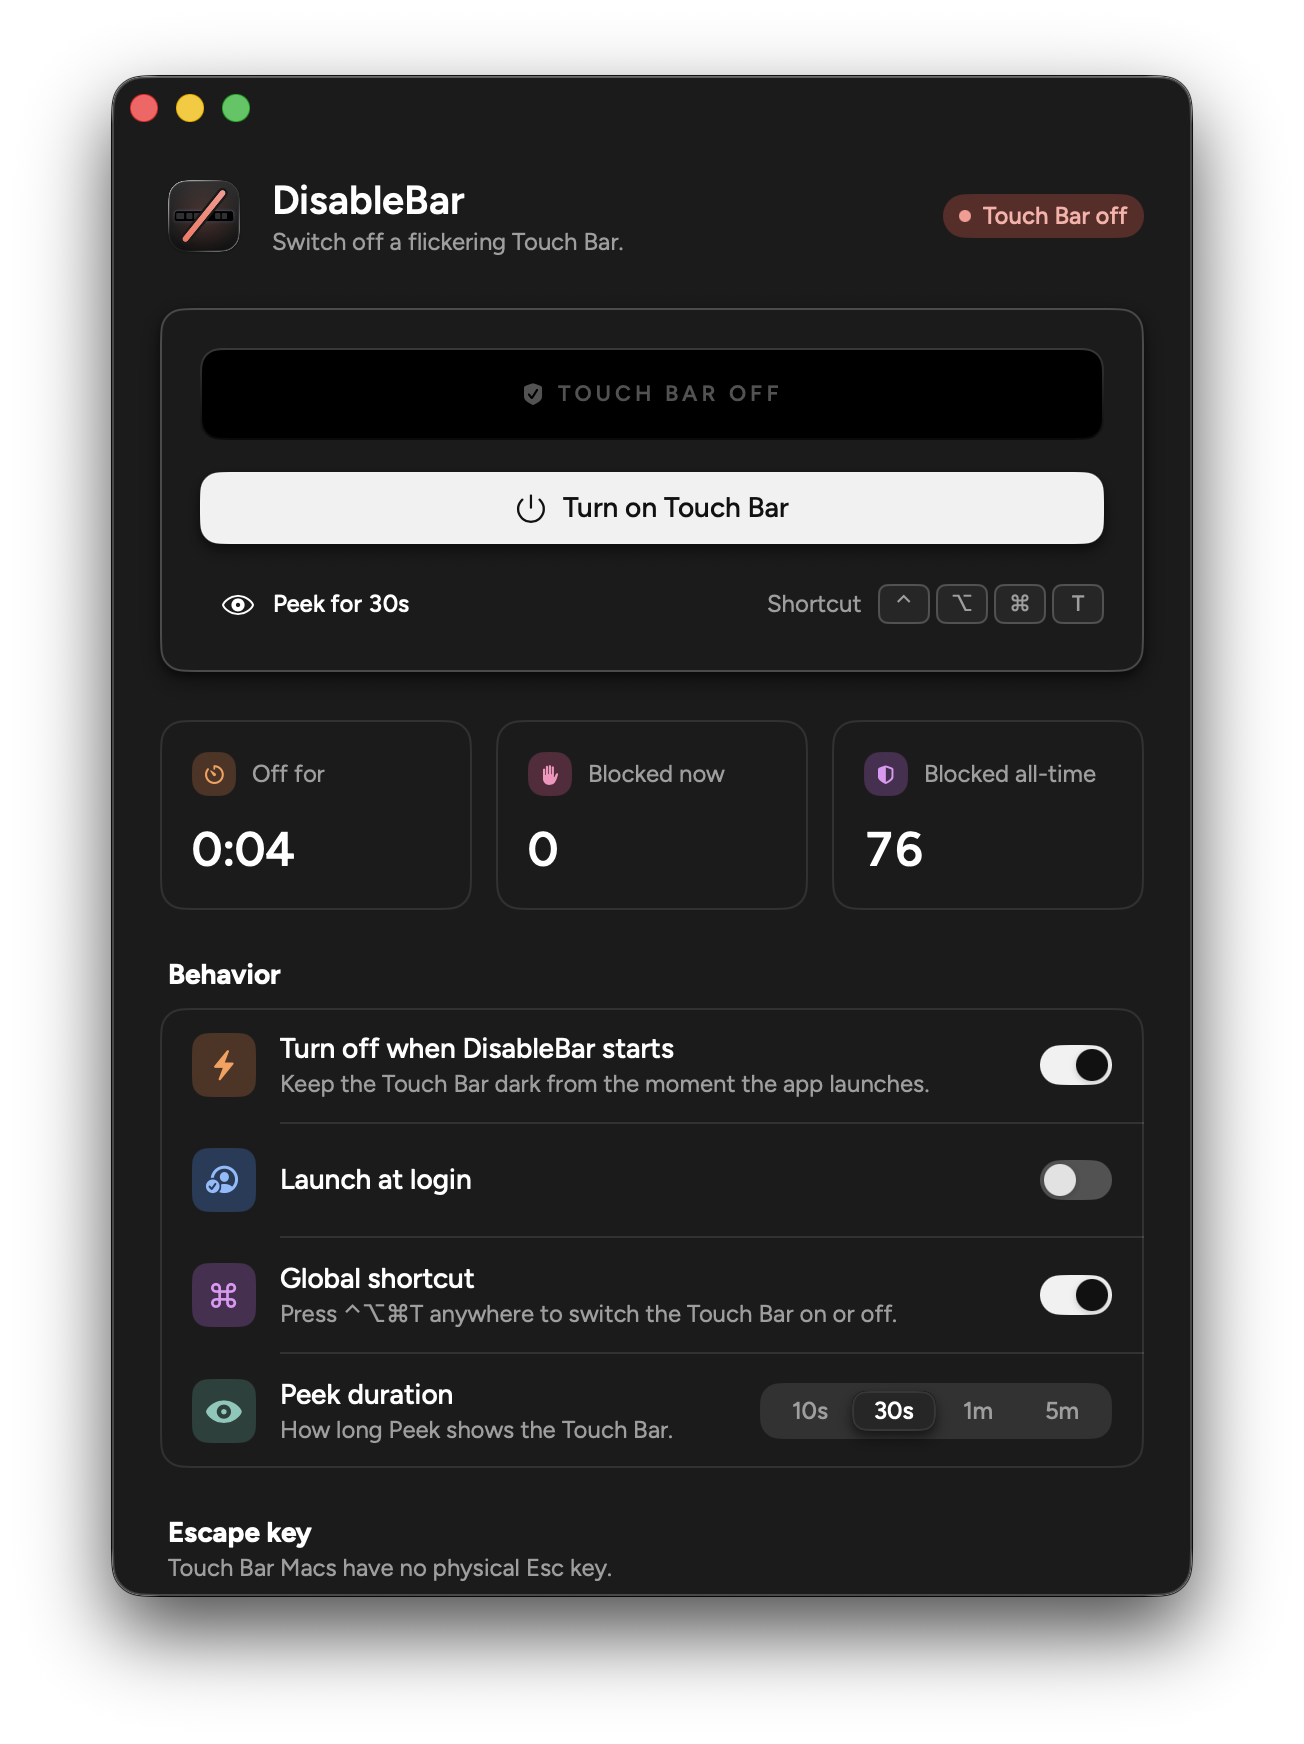
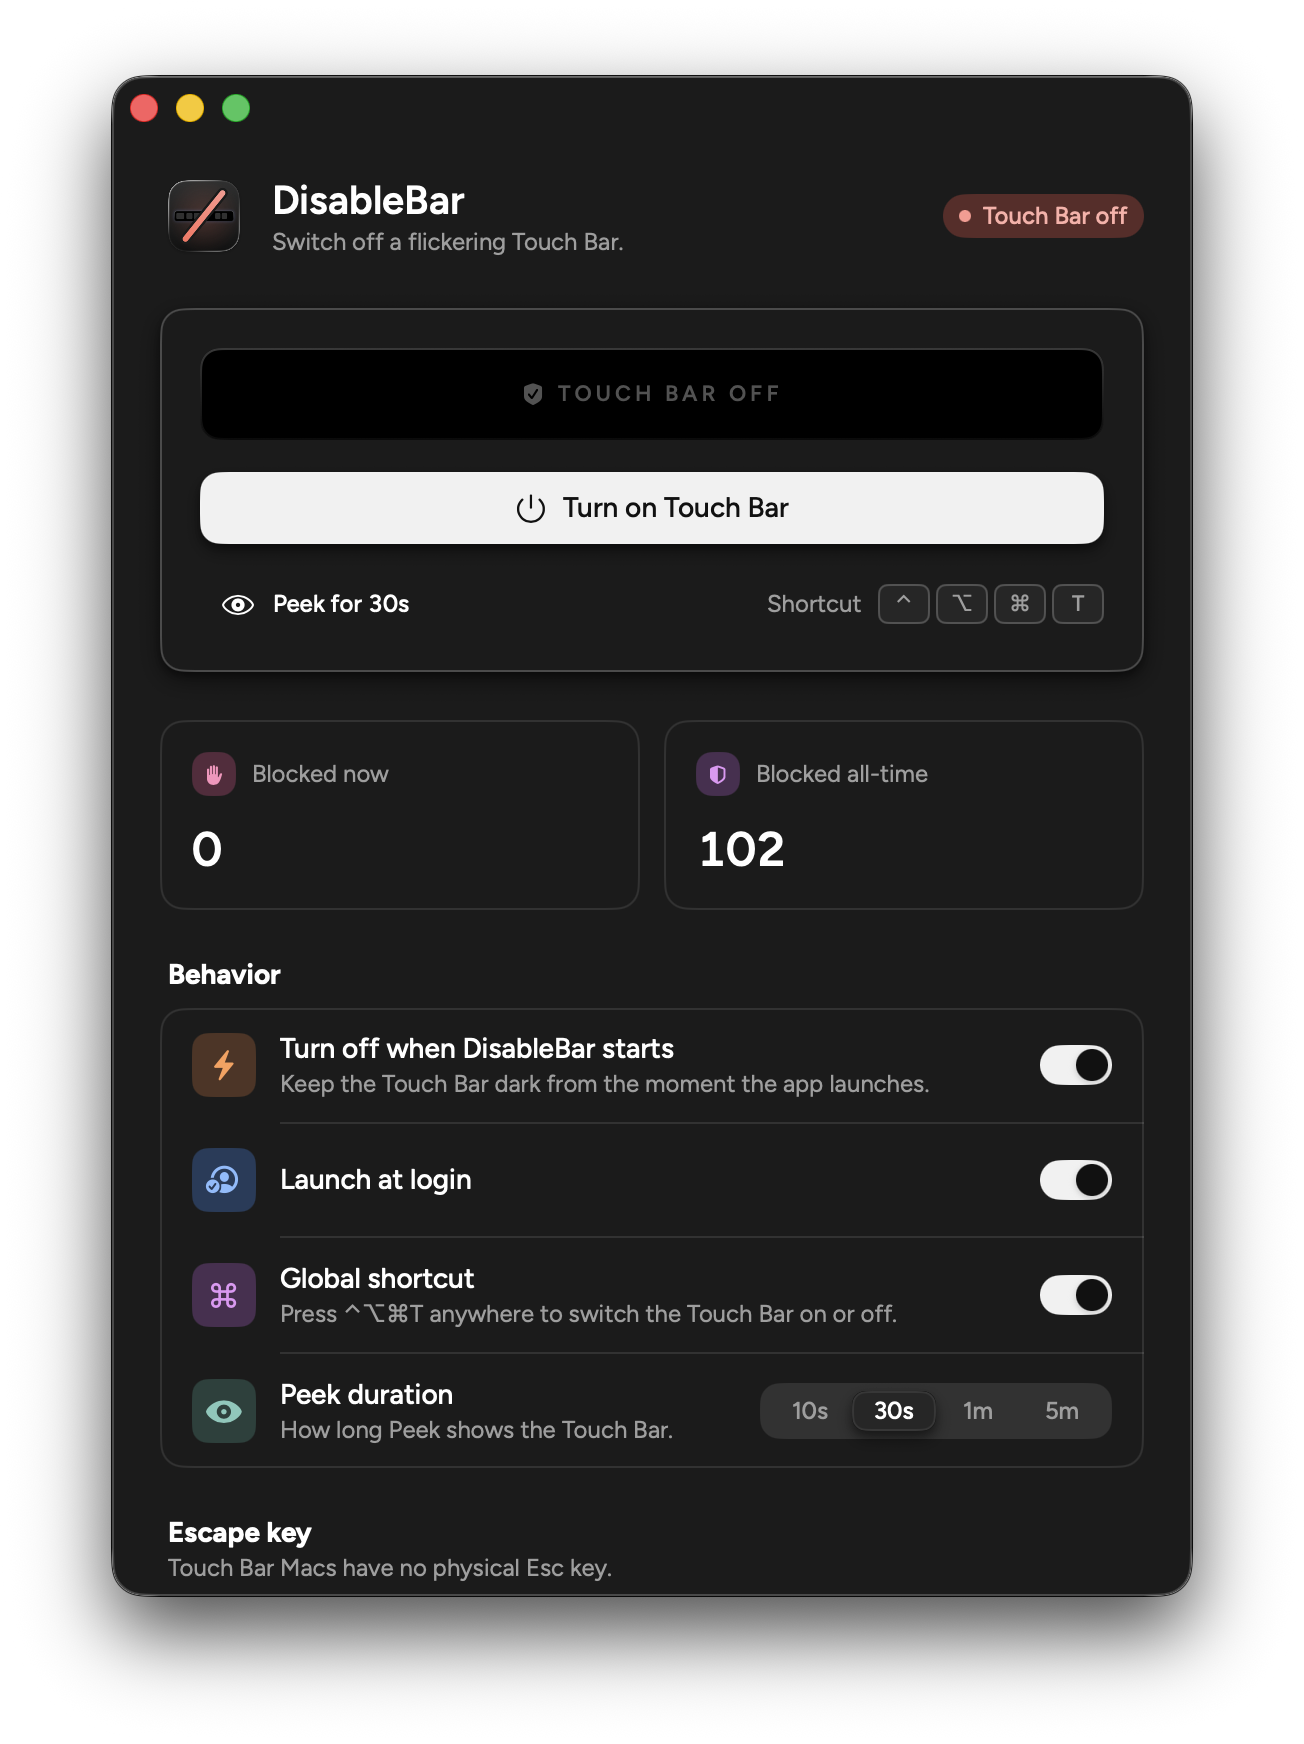
Remove the Off-for timer and tidy VoiceOver output
- Drop the "Off for" stat and its unused state
- Hide decorative icons (row tiles, banner, menu, badge dot, app icon)
  so VoiceOver no longer reads raw SF Symbol names
- Read each stat tile as one element ("Blocked now, 26")
- Expose the Touch Bar preview as "Touch Bar preview, Off/On"
- Refresh README screenshots

Changed region(s): [[0.3988, 0.4335, 0.8282, 0.4954], [0.1534, 0.4335, 0.2761, 0.4954], [0.7975, 0.6502, 0.8589, 0.7122]]

diff --git a/src/DisableBar/Design/Controls.swift b/src/DisableBar/Design/Controls.swift
@@ -216,6 +216,7 @@ struct AXIconTile: View {
             .foregroundStyle(hue.icon)
             .frame(width: size, height: size)
             .background(hue.background, in: RoundedRectangle(cornerRadius: AX.Radius.inner + 2, style: .continuous))
+            .accessibilityHidden(true)
     }
 }
 
@@ -240,7 +241,7 @@ struct AXBadge: View {
     var body: some View {
         HStack(spacing: 6) {
             if showsDot {
-                Circle().fill(hue.icon).frame(width: 6, height: 6)
+                Circle().fill(hue.icon).frame(width: 6, height: 6).accessibilityHidden(true)
             }
             Text(text)
                 .font(AX.font(size: 12, weight: .medium))
@@ -294,6 +295,7 @@ struct AXBanner<Action: View>: View {
     var body: some View {
         HStack(alignment: .center, spacing: AX.Space.s3) {
             Image(systemName: symbol).font(.system(size: 15, weight: .semibold))
+                .accessibilityHidden(true)
             VStack(alignment: .leading, spacing: 2) {
                 Text(title).font(AX.TypeStyle.label.font)
                 if let message {
@@ -420,6 +422,10 @@ struct AXStat: View {
                     .minimumScaleFactor(0.6)
             }
         }
+        // Read as one element: "Blocked now, 26".
+        .accessibilityElement(children: .ignore)
+        .accessibilityLabel(label)
+        .accessibilityValue(value)
     }
 }
 
@@ -439,6 +445,7 @@ struct AXMenuRow: View {
                     .font(.system(size: 12, weight: .medium))
                     .foregroundStyle(AX.Colors.iconSecondary)
                     .frame(width: 18)
+                    .accessibilityHidden(true)
                 Text(title).font(AX.TypeStyle.body.font).foregroundStyle(AX.Colors.textPrimary)
                     .monospacedDigit()
                 Spacer()

diff --git a/src/DisableBar/Views/MainView.swift b/src/DisableBar/Views/MainView.swift
@@ -41,6 +41,7 @@ struct MainView: View {
             Image(nsImage: NSApp.applicationIconImage)
                 .resizable()
                 .frame(width: 44, height: 44)
+                .accessibilityHidden(true)
             VStack(alignment: .leading, spacing: 2) {
                 Text("DisableBar").axStyle(.heading2)
                 Text("Switch off a flickering Touch Bar.")
@@ -113,11 +114,6 @@ struct MainView: View {
 
     private var stats: some View {
         HStack(spacing: AX.Space.s3) {
-            TimelineView(.periodic(from: .now, by: 1)) { context in
-                AXStat(label: "Off for",
-                       value: state.offSince.map { Format.duration(since: $0, now: context.date) } ?? "—",
-                       symbol: "timer", hue: .orange)
-            }
             AXStat(label: "Blocked now", value: Format.number(state.blockedTouchesSession),
                    symbol: "hand.raised.fill", hue: .pink)
             AXStat(label: "Blocked all-time", value: Format.number(state.blockedTouchesTotal),

diff --git a/src/DisableBar/AppState.swift b/src/DisableBar/AppState.swift
@@ -13,7 +13,6 @@ final class AppState: ObservableObject {
 
     @Published private(set) var isTouchBarOff = false
     @Published private(set) var peekSecondsLeft: Int?
-    @Published private(set) var offSince: Date?
     @Published private(set) var blockedTouchesSession = 0
     @Published private(set) var controlStripSuspended = false
     @Published private(set) var touchBarMode: TouchBarMode = SystemTouchBar.mode
@@ -114,14 +113,12 @@ final class AppState: ObservableObject {
         }
         if off {
             blackout.present(showEscKey: showEscKey)
-            if !isTouchBarOff { offSince = Date() }
             isTouchBarOff = true
             blockedTouchesSession = 0
             startWatchdog()
         } else {
             blackout.dismiss()
             isTouchBarOff = false
-            offSince = nil
             stopWatchdog()
         }
     }

diff --git a/src/DisableBar/Views/Components.swift b/src/DisableBar/Views/Components.swift
@@ -17,13 +17,6 @@ struct StatusBadge: View {
 }
 
 enum Format {
-    static func duration(since date: Date, now: Date = Date()) -> String {
-        let seconds = max(0, Int(now.timeIntervalSince(date)))
-        let h = seconds / 3600, m = (seconds % 3600) / 60, s = seconds % 60
-        if h > 0 { return String(format: "%dh %02dm", h, m) }
-        return String(format: "%d:%02d", m, s)
-    }
-
     static func number(_ n: Int) -> String {
         n.formatted(.number.notation(.compactName))
     }

diff --git a/src/DisableBar/Views/MenuBarView.swift b/src/DisableBar/Views/MenuBarView.swift
@@ -35,6 +35,7 @@ struct MenuBarView: View {
                     .buttonStyle(.ax(.secondary, size: .sm))
                     Spacer()
                     Image(systemName: "hand.raised.fill").font(.system(size: 10)).foregroundStyle(AX.Hue.pink.icon)
+                        .accessibilityHidden(true)
                     Text("\(state.blockedTouchesSession) blocked")
                         .axStyle(.supporting, color: AX.Colors.textSecondary)
                         .monospacedDigit()

diff --git a/src/DisableBar/Views/TouchBarPreview.swift b/src/DisableBar/Views/TouchBarPreview.swift
@@ -41,6 +41,9 @@ struct TouchBarPreview: View {
             .shadow(color: isOff ? .clear : Color(hex: "#6d9cfe").opacity(0.22), radius: 14)
         }
         .frame(height: height)
+        .accessibilityElement(children: .ignore)
+        .accessibilityLabel("Touch Bar preview")
+        .accessibilityValue(isOff ? "Off" : "On")
         .animation(AX.Motion.slow, value: isOff)
         .onChange(of: blockedTouches) { _ in addRipple() }
         .task(id: isOff) { await flickerLoop() }
